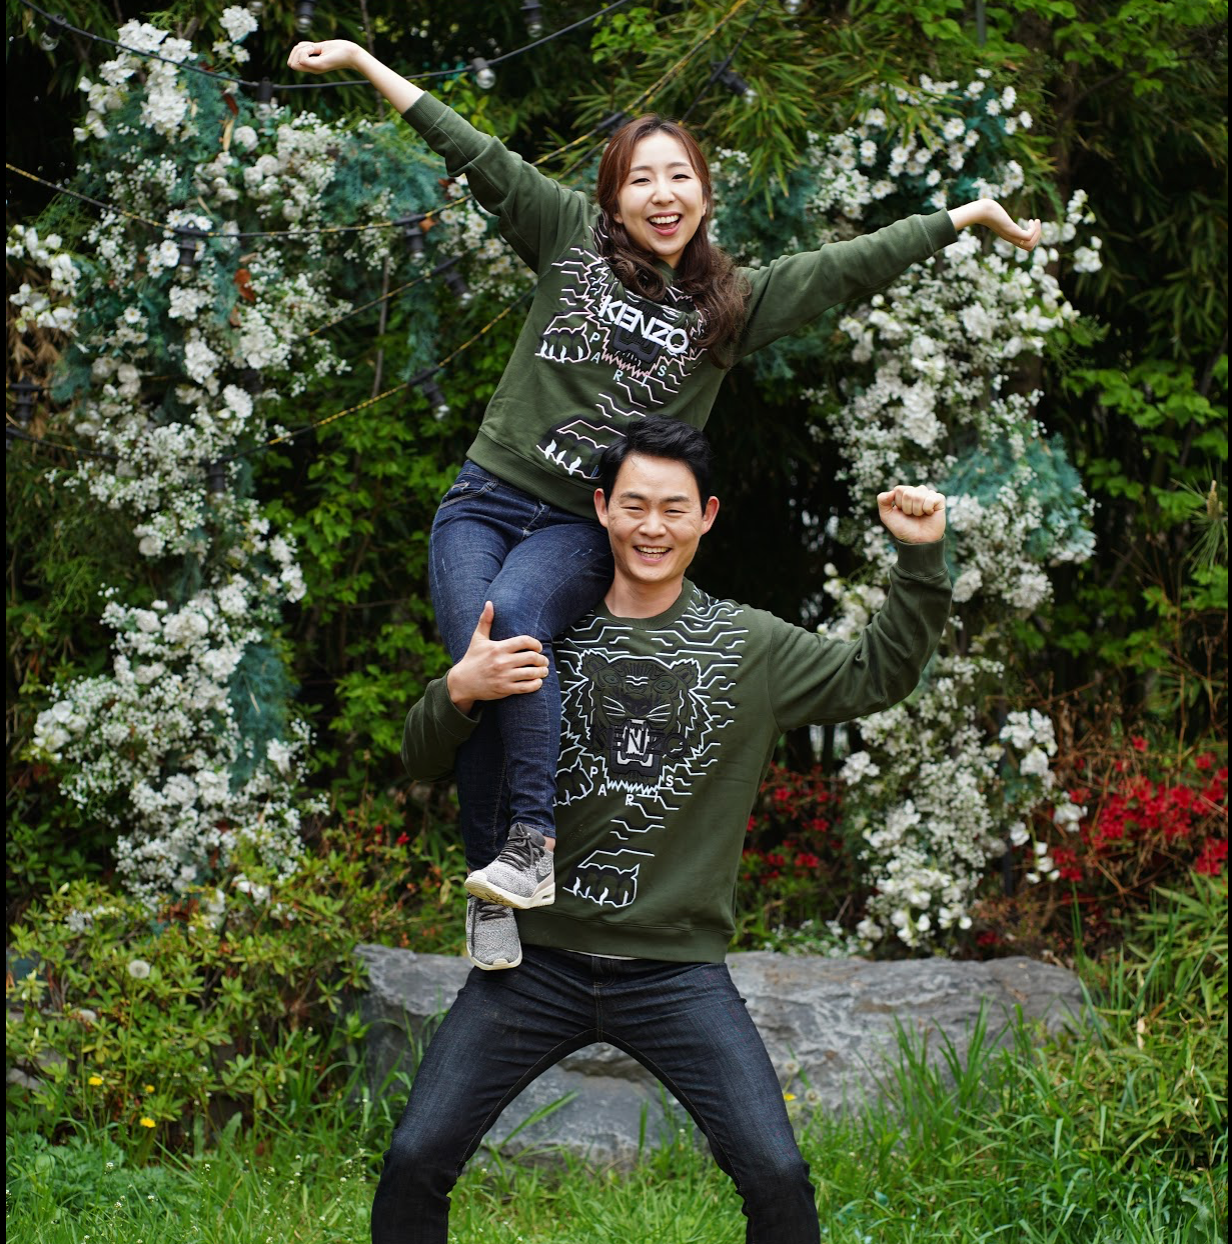
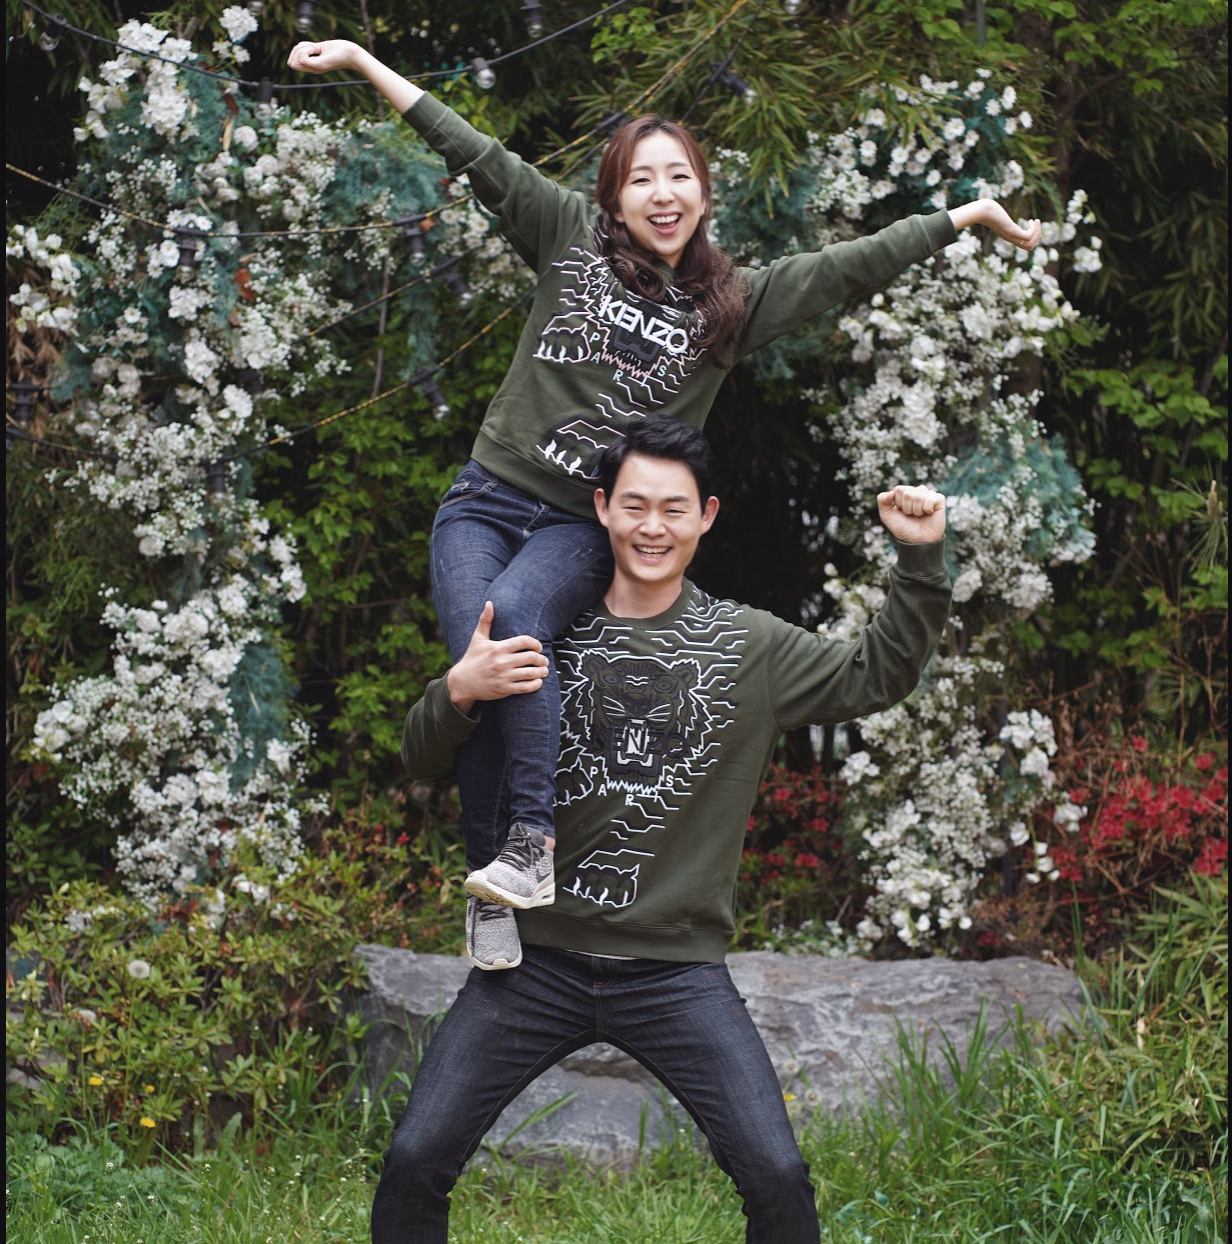
Change image

diff --git a/index.html b/index.html
@@ -137,7 +137,7 @@
 <div id="page">
 
 
-    <header id="fh5co-header" class="fh5co-cover" role="banner" style="background-image:url(images/img_bg_2.jpg);"
+    <header id="fh5co-header" class="fh5co-cover" role="banner" style="background-image:url(images/img_bg_2.png);"
             data-stellar-background-ratio="0.5">
         <div class="overlay"></div>
         <div class="container">
